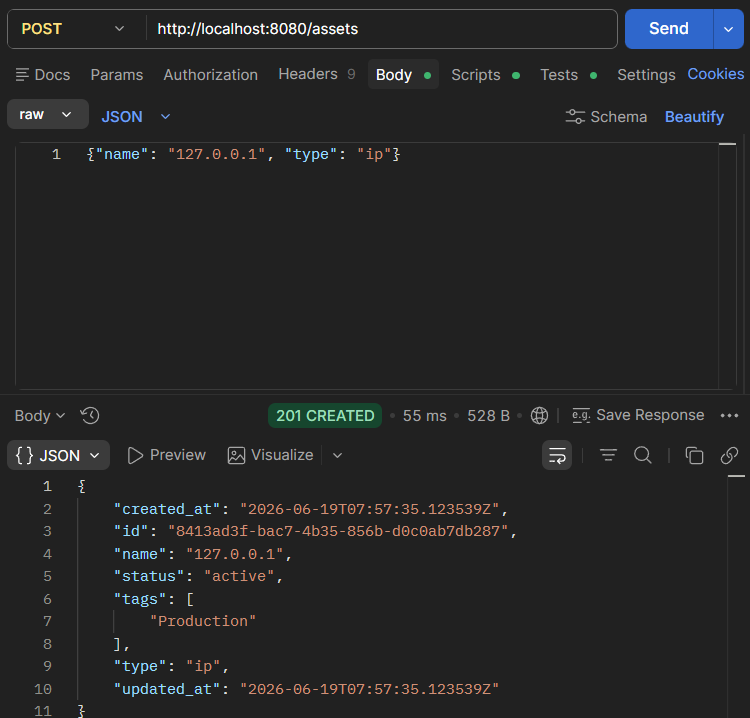
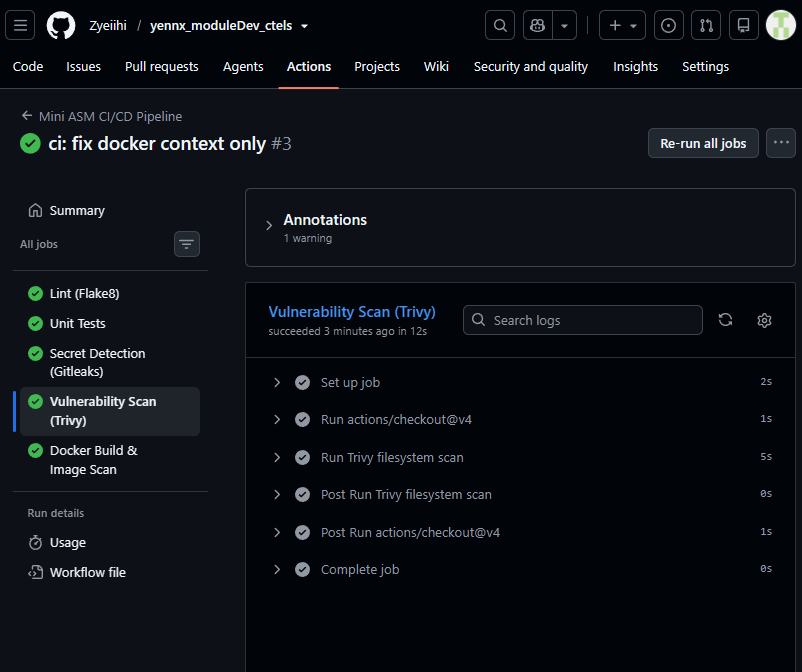
Final cleanup

diff --git a/submissions/day3/SUBMISSION.md b/submissions/day3/SUBMISSION.md
@@ -57,3 +57,40 @@ Kết quả báo "fail" và field error báo lỗi, chỉ có thể scan port lo
 ![alt text](image-15.png)
 
 ## Bài 4: Tích hợp front-end 
+![Giao diện chính](image-16.png)
+
+![Giao diện Asset](image-17.png)
+![Thêm Asset](image-20.png)
+![Asset được thêm lưu vào danh sách](image-21.png)
+![Xóa Asset](image-22.png)
+![Asset được xóa thành công](image-23.png)
+
+![Giao diện Scan](image-18.png)
+
+![Giao diện Result](image-19.png)
+
+## Bài 5: CICD 
+
+![CI running](image.png)
+
+![CI pipeline](image-4.png)
+
+![Scan result](image-5.png)
+
+## Bài 6: Docker Compose Deploy
+![docker-compose ps](image-24.png)
+![frontend access localhost:3000](image-25.png)
+![health check passing](image-26.png)
+
+
+# Bài 7: EASM new function
+
+
+## Bài 8: Cloud VM
+
+
+## Bài 9: Domain & TLS/HTTPS 
+
+
+
+## Bài 10: Auto Deploy on Merge 